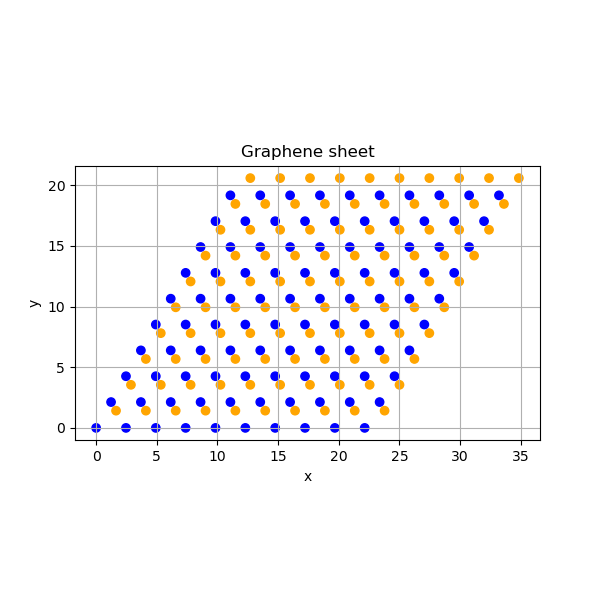
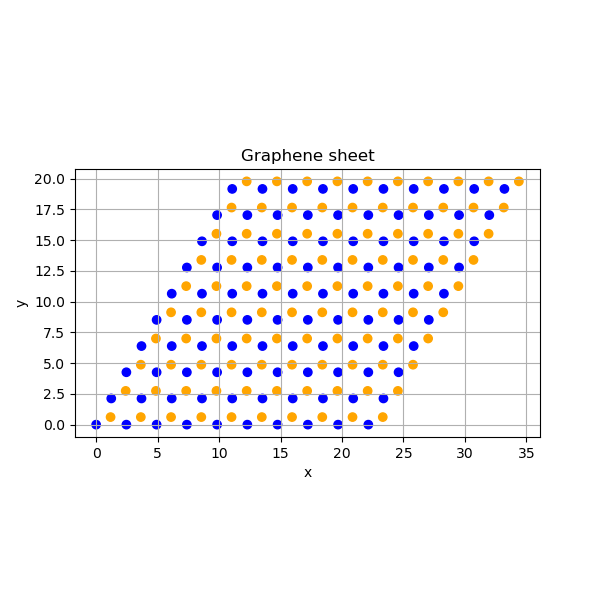
Fix
Changed basis calc in project 4

diff --git a/Aidan's Folder/Project 4/grapheneSheetGen.py b/Aidan's Folder/Project 4/grapheneSheetGen.py
@@ -4,11 +4,11 @@ def generate_graphene_sheet(a = 2.46, nx = 4, ny = 4):
     
     # Lattice Vectors
     a1 = np.array([a, 0.0], dtype = float)
-    a2 = np.array([0.5 * a, np.sqrt(3) / 2 * a], dtype = float)    # a2 rotated 60 degrees from a1
+    a2 = np.array([0.5 * a, (np.sqrt(3) / 2) * a], dtype = float)    # a2 rotated 60 degrees from a1
 
     # Basis definition- Atom A is origin, so B is at offset
     ##
-    B_offset = (1/3) * a1 + (2/3) * a2 
+    B_offset = (1/3) * a1 + (np.sqrt(3) / 6) * a2 
 
     # Making positions array by generating in order of A, B, A, B, ... etc.
     positions = []
